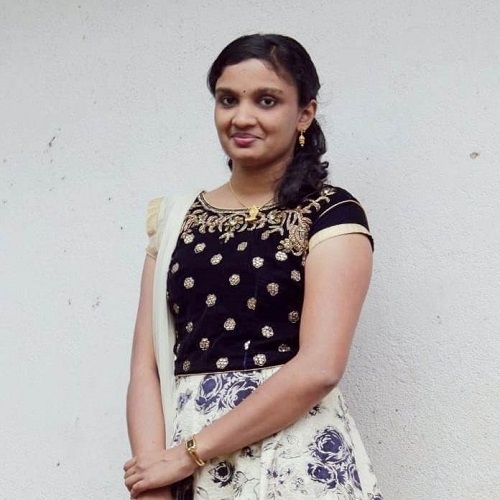
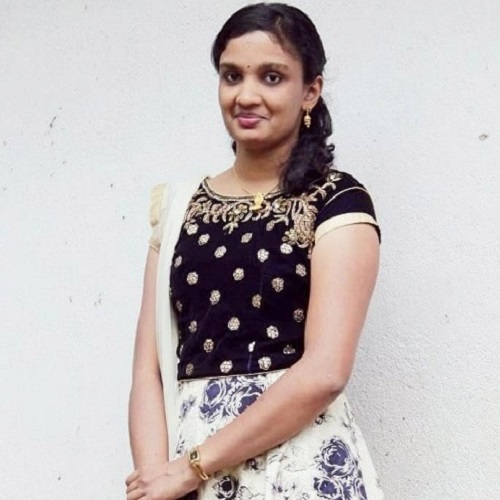
finalsie commit

diff --git a/index.html b/index.html
@@ -97,7 +97,7 @@
                             <ul class="nav navbar-nav navbar-right">
                                 <li><a title="Story" href="index.html#wedding-bio">About Us</a></li>
                                 <li><a title="Story" href="index.html#special-events">Ceremony</a></li>
-                                <li><a title="Story" href="index.html#gallery">Gallery</a></li>
+                                
                             </ul>                           
                         </div>                      
                         <!-- /navigation -->
@@ -151,16 +151,18 @@
         </div>
 <br>
 <h1 style="text-align: center;font-family: Lucida Calligraphy;color:black;font-size: 40px;">About Us</h1>
-<img src="img/salvin.jpg" width="45%" style=";border-color:black;">
+<img src="img/salvinn.jpg" width="45%" >
 <img src="img/love.gif" width="8%">
-<img src="img/neethu.jpg" width="45%" style=";border-color: black;">
+<img src="img/neethu.jpg" width="45%" style=";border-color: black;"> 
   
 <!--start of about us-->
+    
 
   <!--end of about us-->
-<br><br>
+
   <div class="section section-testimonials-wrapper" style="background-image: url('img/qq.gif');background-repeat:no-repeat;background-position: center;background-color: black">
-    <h2 style="text-align: center;font-family: Lucida Calligraphy;color:White;font-size: 60px;">Neethu And Salvin</h1>
+
+    <h2 style="text-align: center;font-family: Lucida Calligraphy;color:White;font-size: 60px;">Salvin And Neethu</h1>
                 <h2 style="text-align: center;font-family: Lucida Calligraphy;color:White;">Getting Married In</h1>
 
                 <div class="bearr-countdown-wrapper">
@@ -212,11 +214,12 @@
                            
                             </header><br>
                                 <h3>4th January 2021 Monday<br>
+                               9:00 AM Onwards
                               </h3><br>
                                  <header>
                                 <h3 class="events-item-heading" ><i>VENUE</i></h3>
                             </header><br>
-                                <h3>@ home Echikere karagundha, dwaramakki road,
+                                <h3>@ Home Echikere Karagundha, Dwaramakki Road,
 B H kaimara Post, N R Pura 577134
 Chikkamagalur Dist.</h3><br>
                                 <header>
@@ -224,7 +227,7 @@ Chikkamagalur Dist.</h3><br>
                                 <h3 class="events-item-heading" ><i>CONTACT NUMBER</i></h3>
                             </header><br>
                                 <h3>Salvin : 8762294130<br>
-                                    Neethu : 8088770884</h3><br>         
+                                &nbsp;&nbsp;&nbsp;&nbsp;&nbsp;&nbsp;&nbsp; &nbsp;&nbsp;&nbsp;&nbsp;&nbsp;&nbsp;&nbsp;&nbsp;&nbsp;8088770884</h3><br>         
                             </div>
                         </div>
                         <!-- /Event Item -->
@@ -240,7 +243,7 @@ Chikkamagalur Dist.</h3><br>
                             </header>
                             <div class="events-item-content">
                                
-                                <iframe src="https://www.google.com/maps/embed?pb=!1m18!1m12!1m3!1d484.7312032617497!2d75.47762752551392!3d13.605994751716574!2m3!1f0!2f0!3f0!3m2!1i1024!2i768!4f13.1!3m3!1m2!1s0x0%3A0x0!2zMTPCsDM2JzIxLjgiTiA3NcKwMjgnNDAuNiJF!5e0!3m2!1sen!2sin!4v1606972634821!5m2!1sen!2sin" width="600" height="450" frameborder="0" style="border:0;" allowfullscreen="" aria-hidden="false" tabindex="0"></iframe>
+                                <iframe src="https://www.google.com/maps/embed?pb=!1m18!1m12!1m3!1d484.7312032617497!2d75.47762752551392!3d13.605994751716574!2m3!1f0!2f0!3f0!3m2!1i1024!2i768!4f13.1!3m3!1m2!1s0x0%3A0x0!2zMTPCsDM2JzIxLjgiTiA3NcKwMjgnNDAuNiJF!5e0!3m2!1sen!2sin!4v1606972634821!5m2!1sen!2sin" width="600" height="475" frameborder="0" style="border:0;" allowfullscreen="" aria-hidden="false" tabindex="0"></iframe>
                             </div>
                         </div>
                         <!-- /Event Item -->

diff --git a/css/styles.css b/css/styles.css
@@ -1740,7 +1740,7 @@ a:focus {
   -webkit-transition: all 0.3s ease-in-out;
   -moz-transition: all 0.3s ease-in-out;
   transition: all 0.3s ease-in-out;
-  background: red;
+  background:red;
 }
 .footer-social-icons .social-icons-list a:hover {
   opacity: 0.8;
